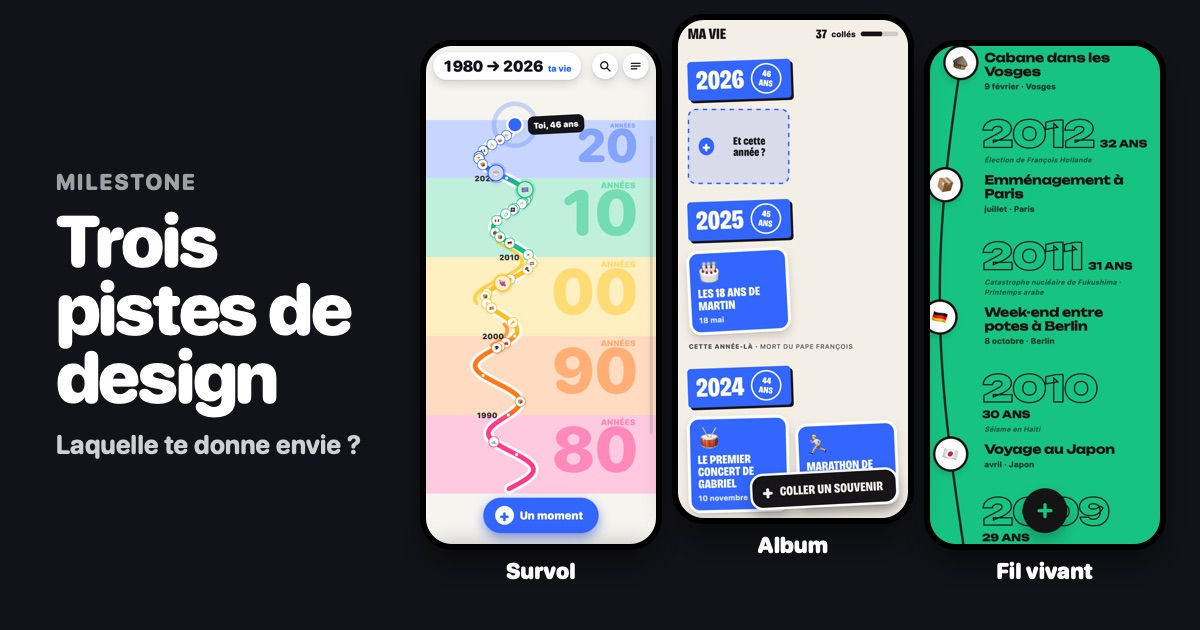
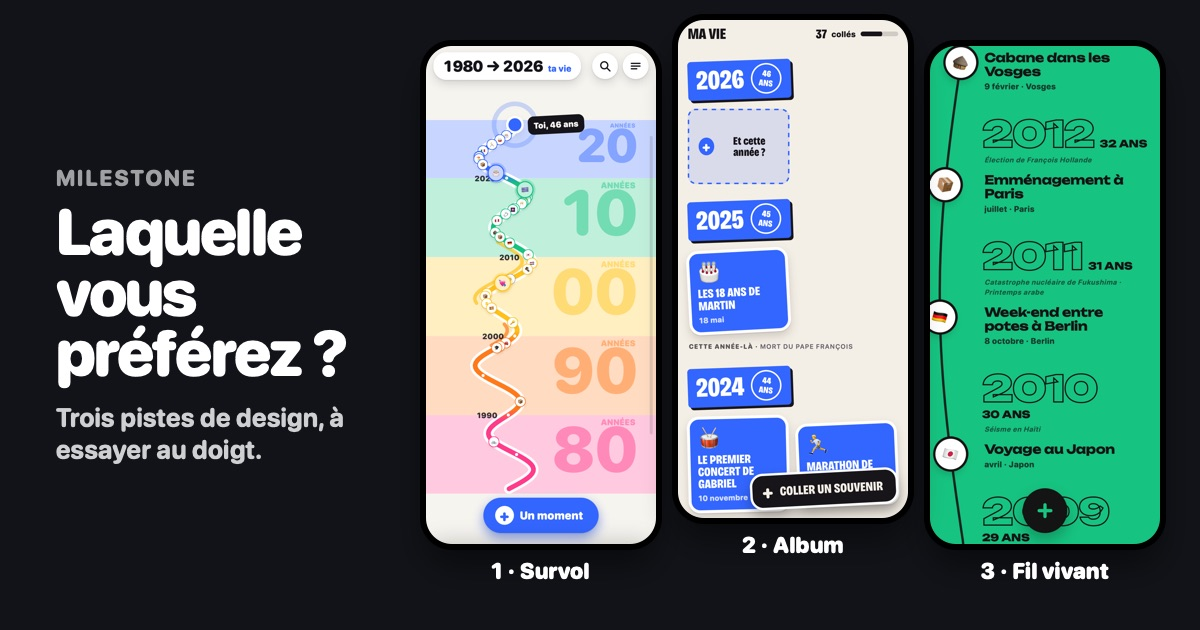
feat(milestone): redépôt des trois pistes, version pour avis entre amis
Copie de experiments/milestone/directions.

Claude-Session: https://claude.ai/code/session_013JJ1X8BCRg6GDtLNszxQEX

diff --git a/milestone/directions/index.html b/milestone/directions/index.html
@@ -4,9 +4,9 @@
 <meta charset="utf-8">
 <meta name="viewport" content="width=device-width, initial-scale=1, viewport-fit=cover">
 <meta name="robots" content="noindex">
-<meta name="description" content="Trois pistes de design pour Milestone, une frise de vie. Chacune se joue au doigt.">
+<meta name="description" content="Trois pistes de design pour Milestone, une app pour poser sa vie sur un fil. Laquelle vous préférez ?">
 <meta property="og:title" content="Milestone, trois pistes de design">
-<meta property="og:description" content="Laquelle te donne envie ? Chaque maquette se joue au doigt.">
+<meta property="og:description" content="Laquelle vous préférez ? Chacune s’essaie au doigt.">
 <meta property="og:image" content="https://castaing.dev/milestone/directions/img/og.jpg">
 <meta property="og:url" content="https://castaing.dev/milestone/directions/">
 <meta property="og:type" content="website">
@@ -15,198 +15,158 @@
 <style>
 @font-face { font-family: "Brico"; src: url("fonts/BricolageGrotesque-latin.woff2") format("woff2"); font-weight: 200 800; font-stretch: 75% 100%; font-display: swap; }
 @font-face { font-family: "Unb"; src: url("fonts/Unbounded-latin.woff2") format("woff2"); font-weight: 200 900; font-display: swap; }
-/* Un tableau de choix : chaque direction a sa section, son téléphone jouable, sa bande du geste. */
+/* Trois pistes numérotées, chacune avec son téléphone à essayer ; la question à la fin. */
 :root {
-  --bg: #ECEEF2; --fg: #111318; --muted: #5B606C; --card: #FFFFFF; --line: rgba(17,19,24,.11); --chip: rgba(17,19,24,.06);
+  --bg: #ECEEF2; --fg: #111318; --muted: #5B606C; --card: #FFFFFF; --line: rgba(17,19,24,.11);
   --round: ui-rounded, "SF Pro Rounded", system-ui, sans-serif;
   --brico: "Brico", "Arial Narrow", system-ui, sans-serif;
   --unb: "Unb", "Arial Black", system-ui, sans-serif;
   --body: system-ui, -apple-system, "Segoe UI", sans-serif;
 }
-@media (prefers-color-scheme: dark) { :root:not([data-theme="light"]) { --bg: #101217; --fg: #F2F3F6; --muted: #A3A8B4; --card: #1B1E25; --line: rgba(255,255,255,.1); --chip: rgba(255,255,255,.07); color-scheme: dark; } }
-:root[data-theme="dark"] { --bg: #101217; --fg: #F2F3F6; --muted: #A3A8B4; --card: #1B1E25; --line: rgba(255,255,255,.1); --chip: rgba(255,255,255,.07); color-scheme: dark; }
+@media (prefers-color-scheme: dark) { :root:not([data-theme="light"]) { --bg: #101217; --fg: #F2F3F6; --muted: #A3A8B4; --card: #1B1E25; --line: rgba(255,255,255,.1); color-scheme: dark; } }
+:root[data-theme="dark"] { --bg: #101217; --fg: #F2F3F6; --muted: #A3A8B4; --card: #1B1E25; --line: rgba(255,255,255,.1); color-scheme: dark; }
 * { box-sizing: border-box; }
 html { padding-top: env(safe-area-inset-top, 0px); padding-bottom: env(safe-area-inset-bottom, 0px); background: var(--bg); }
-body { margin: 0; background: var(--bg); color: var(--fg); font: 16px/1.5 var(--body); }
+body { margin: 0; background: var(--bg); color: var(--fg); font: 17px/1.5 var(--body); }
 img { max-width: 100%; }
-.wrap { max-width: 1080px; margin: 0 auto; padding-inline: 16px; padding-block: 28px 64px; }
-header .k { font: 800 12px var(--round); letter-spacing: .1em; text-transform: uppercase; color: var(--muted); }
-header h1 { margin: 6px 0 10px; font: 900 clamp(34px, 7vw, 56px)/1 var(--round); letter-spacing: -.03em; text-wrap: balance; }
-header p { margin: 0; max-width: 62ch; color: var(--muted); font-size: 17px; }
-.before { margin-top: 18px; display: flex; gap: 10px; align-items: center; flex-wrap: wrap; }
-.before span { font: 800 13px var(--round); color: var(--muted); margin-right: 4px; }
-.before img { width: 64px; border-radius: 10px; border: 1px solid var(--line); }
+.wrap { max-width: 1000px; margin: 0 auto; padding-inline: 16px; padding-block: 32px 64px; }
 
-section.dir { margin-top: 40px; padding-top: 28px; border-top: 2px solid var(--line); }
-.dir-head { display: flex; gap: 14px; align-items: baseline; flex-wrap: wrap; }
-.dir-head h2 { margin: 0; font-size: clamp(40px, 9vw, 64px); line-height: .95; letter-spacing: -.02em; }
-.dir-head .tag { font: 800 13px var(--round); padding: 6px 12px; border-radius: 999px; background: var(--acc); color: var(--acc-ink); }
+header .k { font: 800 13px var(--round); letter-spacing: .1em; text-transform: uppercase; color: var(--muted); }
+header h1 { margin: 6px 0 14px; font: 900 clamp(38px, 8vw, 60px)/1 var(--round); letter-spacing: -.03em; text-wrap: balance; }
+header p { margin: 0 0 10px; max-width: 60ch; font-size: 18px; }
+header p.soft { color: var(--muted); font-size: 16px; }
+.before { margin-top: 16px; display: flex; gap: 10px; align-items: center; flex-wrap: wrap; }
+.before span { font: 800 14px var(--round); color: var(--muted); margin-right: 4px; }
+.before img { width: 58px; border-radius: 10px; border: 1px solid var(--line); }
+
+section.dir { margin-top: 44px; padding-top: 30px; border-top: 2px solid var(--line); }
+.dir-head { display: flex; gap: 14px; align-items: center; flex-wrap: wrap; }
+.num { width: 52px; height: 52px; border-radius: 50%; display: grid; place-items: center; flex: none; background: var(--acc); color: var(--acc-ink); font: 900 26px var(--round); }
+.dir-head h2 { margin: 0; font-size: clamp(40px, 9vw, 62px); line-height: .95; letter-spacing: -.02em; }
 #survol h2 { font-family: var(--round); font-weight: 900; }
 #album h2 { font-family: var(--brico); font-stretch: 75%; font-weight: 800; text-transform: uppercase; }
 #fil h2 { font-family: var(--unb); font-weight: 900; letter-spacing: -.04em; }
-.pitch { margin: 12px 0 0; max-width: 60ch; font-size: 19px; line-height: 1.4; font-weight: 600; text-wrap: pretty; }
+.tag { margin: 8px 0 0; font: 800 20px var(--round); color: var(--muted); }
 
-.dir-body { margin-top: 20px; display: grid; grid-template-columns: 300px minmax(0, 1fr); gap: 28px; align-items: start; }
-@media (max-width: 760px) { .dir-body { grid-template-columns: minmax(0, 1fr); } }
-.phone { position: relative; width: 100%; max-width: 300px; aspect-ratio: 390 / 844; border-radius: 34px; overflow: hidden; background: #000; box-shadow: 0 0 0 8px #0B0C0F, 0 24px 50px rgba(0,0,0,.25); margin: 8px auto 0; }
-.phone img, .phone iframe { position: absolute; inset: 0; width: 100%; height: 100%; border: 0; display: block; }
-.phone iframe { width: 390px; height: 844px; transform-origin: 0 0; }
-.play { position: absolute; left: 50%; bottom: 22px; transform: translateX(-50%); display: flex; align-items: center; gap: 8px; height: 52px; padding: 0 22px; border: 0; border-radius: 26px; background: var(--fg); color: var(--bg); font: 800 17px var(--round); cursor: pointer; box-shadow: 0 10px 24px rgba(0,0,0,.3); white-space: nowrap; }
-.play:focus-visible, .full:focus-visible, .close:focus-visible { outline: 3px solid var(--acc); outline-offset: 3px; }
-.phone-actions { display: flex; justify-content: center; gap: 8px; margin-top: 18px; }
-.full { display: inline-flex; align-items: center; text-decoration: none; height: 40px; padding: 0 16px; border-radius: 20px; border: 1.5px solid var(--line); background: var(--card); color: var(--fg); font: 700 14px var(--round); cursor: pointer; }
-
-.facts { display: grid; gap: 12px; margin: 0; }
-.fact { background: var(--card); border-radius: 18px; padding: 14px 16px; min-width: 0; }
-.fact dt { font: 800 12px var(--round); letter-spacing: .08em; text-transform: uppercase; color: var(--muted); }
-.fact dd { margin: 4px 0 0; font-size: 16px; line-height: 1.45; }
-.fact.risk dt { color: var(--fg); }
-.label { margin: 22px 0 8px; font: 800 12px var(--round); letter-spacing: .08em; text-transform: uppercase; color: var(--muted); }
-.shots { display: grid; grid-template-columns: repeat(5, minmax(0, 1fr)); gap: 10px; }
+.dir-body { margin-top: 22px; display: grid; grid-template-columns: 290px minmax(0, 1fr); gap: 32px; align-items: start; }
+@media (max-width: 760px) { .dir-body { grid-template-columns: minmax(0, 1fr); gap: 22px; } }
+.pitch { margin: 0; max-width: 54ch; font-size: 20px; line-height: 1.45; font-weight: 600; text-wrap: pretty; }
+.try { margin: 16px 0 0; padding: 14px 16px; border-radius: 16px; background: var(--card); max-width: 54ch; font-size: 16px; }
+.try b { font-family: var(--round); }
+.shots { margin-top: 22px; display: grid; grid-template-columns: repeat(4, minmax(0, 1fr)); gap: 10px; }
 .shots figure { margin: 0; min-width: 0; }
 .shots img { width: 100%; border-radius: 12px; border: 1px solid var(--line); display: block; }
-.shots figcaption { margin-top: 5px; font: 700 12px/1.3 var(--round); color: var(--muted); }
-@media (max-width: 560px) { .shots { grid-template-columns: repeat(3, minmax(0, 1fr)); } }
-.strip { display: grid; grid-template-columns: repeat(4, minmax(0, 1fr)); gap: 6px; padding: 8px; border-radius: 16px; background: var(--chip); }
-.strip img { width: 100%; border-radius: 8px; display: block; }
-.strip-cap { margin: 6px 0 0; font-size: 14px; color: var(--muted); }
+.shots figcaption { margin-top: 6px; font: 700 13px/1.3 var(--round); color: var(--muted); }
 
-.bump { margin-top: 44px; padding: 22px 20px; border-radius: 22px; background: var(--card); }
-.bump h2 { margin: 0 0 4px; font: 900 26px var(--round); letter-spacing: -.02em; }
-.bump > p { margin: 0 0 12px; color: var(--muted); max-width: 64ch; }
-.bump ol { margin: 0; padding-left: 22px; display: grid; gap: 8px; max-width: 78ch; }
-.bump li::marker { font-weight: 800; color: var(--muted); }
-.bump .unv { margin-top: 14px; padding-top: 12px; border-top: 1.5px dashed var(--line); font-size: 15px; color: var(--muted); max-width: 78ch; }
-.bump .src { margin-top: 10px; font-size: 13px; color: var(--muted); overflow-wrap: anywhere; }
-.bump .src a { color: inherit; }
+.phone { position: relative; width: 100%; max-width: 290px; aspect-ratio: 390 / 844; border-radius: 34px; overflow: hidden; background: #000; box-shadow: 0 0 0 8px #0B0C0F, 0 24px 50px rgba(0,0,0,.25); margin: 8px auto 0; }
+.phone img, .phone iframe { position: absolute; inset: 0; width: 100%; height: 100%; border: 0; display: block; }
+.phone iframe { width: 390px; height: 844px; transform-origin: 0 0; }
+.play { position: absolute; left: 50%; bottom: 22px; transform: translateX(-50%); height: 54px; padding: 0 26px; border: 0; border-radius: 27px; background: var(--fg); color: var(--bg); font: 800 18px var(--round); cursor: pointer; box-shadow: 0 10px 24px rgba(0,0,0,.3); white-space: nowrap; }
+.phone-actions { display: flex; justify-content: center; margin-top: 18px; }
+.full { display: inline-flex; align-items: center; text-decoration: none; height: 42px; padding: 0 18px; border-radius: 21px; border: 1.5px solid var(--line); background: var(--card); color: var(--fg); font: 700 15px var(--round); cursor: pointer; }
+.play:focus-visible, .full:focus-visible, .close:focus-visible { outline: 3px solid var(--acc, #3366FF); outline-offset: 3px; }
 
-.ask { margin-top: 44px; padding: 26px 22px; border-radius: 22px; background: var(--fg); color: var(--bg); }
-.ask h2 { margin: 0; font: 900 clamp(26px, 5vw, 36px)/1.1 var(--round); letter-spacing: -.02em; text-wrap: balance; }
-.ask p { margin: 8px 0 0; opacity: .8; max-width: 60ch; }
-.common { margin-top: 18px; font-size: 15px; color: var(--muted); max-width: 72ch; }
+.ask { margin-top: 48px; padding: 28px 22px; border-radius: 24px; background: var(--fg); color: var(--bg); }
+.ask h2 { margin: 0; font: 900 clamp(30px, 6vw, 42px)/1.05 var(--round); letter-spacing: -.02em; text-wrap: balance; }
+.ask p { margin: 10px 0 0; max-width: 56ch; font-size: 18px; opacity: .85; }
+.ask .keys { margin-top: 16px; display: flex; gap: 10px; flex-wrap: wrap; }
+.ask .keys span { display: inline-flex; align-items: center; gap: 8px; height: 40px; padding: 0 16px 0 6px; border-radius: 20px; background: color-mix(in srgb, var(--bg) 12%, transparent); font: 800 16px var(--round); }
+.ask .keys i { width: 28px; height: 28px; border-radius: 50%; display: grid; place-items: center; font-style: normal; background: var(--k); color: var(--kink); }
+.fine { margin-top: 18px; font-size: 14px; color: var(--muted); }
 
 .overlay { position: fixed; inset: 0; z-index: 10; background: rgba(5,6,8,.86); display: grid; place-items: center; padding: 12px; }
 .overlay .phone { max-width: none; width: min(390px, calc(100vw - 24px), calc((100vh - 90px) * 390 / 844)); margin: 0; }
 .close { position: fixed; top: calc(env(safe-area-inset-top, 0px) + 12px); right: 12px; width: 44px; height: 44px; border-radius: 50%; border: 0; background: #fff; color: #111; font: 900 22px var(--round); cursor: pointer; }
-@media (prefers-reduced-motion: reduce) { * { scroll-behavior: auto; } }
 </style>
 </head>
 <body>
-
 <div class="wrap">
   <header>
     <div class="k">Milestone · nouveau design</div>
-    <h1>Trois pistes</h1>
-    <p>Milestone, c’est une petite app que je fabrique : ta vie sur un fil, à côté de l’Histoire. On y pose un souvenir en une phrase (« road trip en Espagne l’été 2003 ») et il se range tout seul à sa date. La version actuelle marche, mais elle est fade. Voici trois pistes pour lui donner du caractère, avec une vie d’exemple inventée. Chacune se joue au doigt : touche « Jouer », ou ouvre-la en plein écran depuis ton téléphone.</p>
-    <div class="before"><span>La version actuelle :</span><img src="img/actuel-light-2-frise-haut.jpg" alt="Frise actuelle : fond beige, fil rouge, années en serif"><img src="img/actuel-light-5-raconter.jpg" alt="Capture actuelle : champ, flèches, segments jour mois année"><img src="img/actuel-light-6-fiche.jpg" alt="Fiche actuelle"></div>
+    <h1>Laquelle vous préférez ?</h1>
+    <p>Je fabrique Milestone, une petite app pour poser sa vie sur un fil. On écrit un souvenir en une phrase, « road trip en Espagne l’été 2003 », et il se range tout seul à sa date, à côté des grands événements de l’époque.</p>
+    <p>Elle marche, mais elle manque de caractère. Voici trois pistes de design, sur une vie inventée. Chacune s’essaie au doigt, idéalement sur téléphone.</p>
+    <div class="before"><span>Aujourd’hui, elle ressemble à ça :</span><img src="img/actuel-light-2-frise-haut.jpg" alt="La version actuelle : fond beige, fil rouge"><img src="img/actuel-light-5-raconter.jpg" alt="La version actuelle : écrire un souvenir"><img src="img/actuel-light-6-fiche.jpg" alt="La version actuelle : un souvenir ouvert"></div>
   </header>
 
   <section class="dir" id="survol" style="--acc:#3366FF;--acc-ink:#fff">
-    <div class="dir-head"><h2>Survol</h2><span class="tag">ta vie vue d’avion</span></div>
-    <p class="pitch">La frise devient une carte : ta vie entière tient dans l’écran, colorée décennie par décennie, et l’on plonge au pincement jusqu’à l’année puis au moment.</p>
+    <div class="dir-head"><span class="num">1</span><h2>Survol</h2></div>
+    <p class="tag">Ta vie vue d’avion</p>
     <div class="dir-body">
       <div>
-        <div class="phone" data-src="survol.html"><img src="img/survol-light-1-vie.jpg" alt="Survol : la vie entière, une route colorée par décennie"><button class="play">▶ Jouer</button></div>
-        <div class="phone-actions"><a class="full" href="survol.html" data-src="survol.html">Plein écran</a></div>
+        <div class="phone" data-src="survol.html"><img src="img/survol-light-1-vie.jpg" alt="Survol : toute la vie sur une route colorée par décennie"><button class="play">Essayer</button></div>
+        <div class="phone-actions"><a class="full" href="survol.html" data-src="survol.html">Ouvrir en grand</a></div>
       </div>
       <div>
-        <dl class="facts">
-          <div class="fact"><dt>Le geste</dt><dd>Pincer, ou glisser le pouce le long du bord droit : vie entière, décennies, années, mois, avec un cran sous le doigt à chaque palier. Toucher une décennie y plonge.</dd></div>
-          <div class="fact"><dt>La récompense</dt><dd>Le moment posé s’envole : la carte prend de la hauteur, survole ta vie, plonge à sa place, et il atterrit avec un rebond et une onde.</dd></div>
-          <div class="fact"><dt>L’Histoire et les années vides</dt><dd>Les repères sont des noms de lieux en filigrane. De près, une année sans souvenir propose « Et en 1994 ? ».</dd></div>
-          <div class="fact risk"><dt>Ce qu’elle coûte</dt><dd>La lecture en liste disparaît : on relit en survolant. C’est la plus lourde à rendre fluide sur iPhone, la carte est dessinée par l’app.</dd></div>
-        </dl>
-        <p class="label">Les écrans</p>
+        <p class="pitch">La frise devient une carte. On voit toute sa vie d’un coup d’œil, chaque décennie a sa couleur, et on zoome jusqu’à une année puis jusqu’à un souvenir.</p>
+        <p class="try"><b>À essayer :</b> pincez la carte, ou faites glisser le pouce le long du bord droit. Touchez « Un moment » et écrivez une phrase avec une date, puis regardez où elle se pose.</p>
         <div class="shots">
           <figure><img src="img/survol-light-3-annees.jpg" alt=""><figcaption>Zoom sur les années</figcaption></figure>
-          <figure><img src="img/survol-light-4-poser.jpg" alt=""><figcaption>Poser un moment</figcaption></figure>
-          <figure><img src="img/survol-light-6-fiche.jpg" alt=""><figcaption>La fiche</figcaption></figure>
-          <figure><img src="img/survol-dark-1-vie.jpg" alt=""><figcaption>En sombre</figcaption></figure>
-          <figure><img src="img/survol-light-1-vie.jpg" alt=""><figcaption>Vie entière</figcaption></figure>
+          <figure><img src="img/survol-light-4-poser.jpg" alt=""><figcaption>Écrire un souvenir</figcaption></figure>
+          <figure><img src="img/survol-light-6-fiche.jpg" alt=""><figcaption>Un souvenir ouvert</figcaption></figure>
+          <figure><img src="img/survol-dark-1-vie.jpg" alt=""><figcaption>Le soir</figcaption></figure>
         </div>
-        <p class="label">Poser, image par image</p>
-        <div class="strip"><img src="img/survol-light-5-vol-0.jpg" alt=""><img src="img/survol-light-5-vol-2.jpg" alt=""><img src="img/survol-light-5-vol-4.jpg" alt=""><img src="img/survol-light-5-vol-5.jpg" alt=""></div>
-        <p class="strip-cap">« Saut en parachute à Gap mai 2012 » : 🪂 deviné, vert des années 2010, la carte s’élève puis plonge sur mai 2012.</p>
       </div>
     </div>
   </section>
 
   <section class="dir" id="album" style="--acc:#FFC21A;--acc-ink:#141414">
-    <div class="dir-head"><h2>Album</h2><span class="tag">ta vie en autocollants</span></div>
-    <p class="pitch">Chaque moment est un autocollant découpé, collé sur la page de son année. Les temps forts sont des brillants, les années vides des cases qui attendent.</p>
+    <div class="dir-head"><span class="num">2</span><h2>Album</h2></div>
+    <p class="tag">Ta vie en autocollants</p>
     <div class="dir-body">
       <div>
-        <div class="phone" data-src="album.html"><img src="img/album-light-1-haut.jpg" alt="Album : bandeaux d'années, autocollants colorés"><button class="play">▶ Jouer</button></div>
-        <div class="phone-actions"><a class="full" href="album.html" data-src="album.html">Plein écran</a></div>
+        <div class="phone" data-src="album.html"><img src="img/album-light-1-haut.jpg" alt="Album : des autocollants colorés sous chaque année"><button class="play">Essayer</button></div>
+        <div class="phone-actions"><a class="full" href="album.html" data-src="album.html">Ouvrir en grand</a></div>
       </div>
       <div>
-        <dl class="facts">
-          <div class="fact"><dt>Le geste</dt><dd>Garder le doigt sur un autocollant le soulève : il suit le doigt, penche avec l’élan, puis revient se coller. Dans la planche, on le fait glisser de côté pour changer la date.</dd></div>
-          <div class="fact"><dt>La récompense</dt><dd>Coller : il se décolle de la planche, l’album file à la bonne page, ça claque, la page tressaille et le compteur prend +1.</dd></div>
-          <div class="fact"><dt>La fiche</dt><dd>L’autocollant vient à toi et se retourne : au dos, l’âge en grand, la note, ce qui l’entoure. On feuillette en glissant, le mode deck revient de lui-même.</dd></div>
-          <div class="fact risk"><dt>Ce qu’elle coûte</dt><dd>Le fil continu : la vie se lit par pages d’années. L’esprit collection peut sembler léger pour certains souvenirs ; un deuil reste un autocollant sobre, sans émoji ni éclat.</dd></div>
-        </dl>
-        <p class="label">Les écrans</p>
+        <p class="pitch">Chaque souvenir est un autocollant collé sur la page de son année. Les plus importants brillent, et les années encore vides attendent qu’on les remplisse.</p>
+        <p class="try"><b>À essayer :</b> gardez le doigt sur un autocollant pour le décoller, touchez-le pour le retourner. Puis « Coller un souvenir ».</p>
         <div class="shots">
-          <figure><img src="img/album-light-3-bas.jpg" alt=""><figcaption>Années vides en cases</figcaption></figure>
-          <figure><img src="img/album-light-4-poser.jpg" alt=""><figcaption>Poser un moment</figcaption></figure>
-          <figure><img src="img/album-light-6-fiche-b.jpg" alt=""><figcaption>Le dos, la fiche</figcaption></figure>
-          <figure><img src="img/album-dark-1-haut.jpg" alt=""><figcaption>En sombre</figcaption></figure>
-          <figure><img src="img/album-light-1-haut.jpg" alt=""><figcaption>Les pages</figcaption></figure>
+          <figure><img src="img/album-light-3-bas.jpg" alt=""><figcaption>Les années vides</figcaption></figure>
+          <figure><img src="img/album-light-4-poser.jpg" alt=""><figcaption>Écrire un souvenir</figcaption></figure>
+          <figure><img src="img/album-light-6-fiche-b.jpg" alt=""><figcaption>Le dos de l’autocollant</figcaption></figure>
+          <figure><img src="img/album-dark-1-haut.jpg" alt=""><figcaption>Le soir</figcaption></figure>
         </div>
-        <p class="label">Coller, image par image</p>
-        <div class="strip"><img src="img/album-light-5-coller-0.jpg" alt=""><img src="img/album-light-5-coller-2.jpg" alt=""><img src="img/album-light-5-coller-3.jpg" alt=""><img src="img/album-light-5-coller-4.jpg" alt=""></div>
-        <p class="strip-cap">L’autocollant quitte la planche, rejoint 2012 et claque à côté de l’emménagement à Paris.</p>
       </div>
     </div>
   </section>
 
   <section class="dir" id="fil" style="--acc:#16C47F;--acc-ink:#141414">
-    <div class="dir-head"><h2>Fil vivant</h2><span class="tag">la couleur du temps</span></div>
-    <p class="pitch">L’écran entier prend la couleur de la décennie que tu traverses. Le fil ploie quand tu défiles vite et revient en oscillant ; chaque moment s’ouvre en plein écran, comme une story.</p>
+    <div class="dir-head"><span class="num">3</span><h2>Fil vivant</h2></div>
+    <p class="tag">La couleur du temps</p>
     <div class="dir-body">
       <div>
-        <div class="phone" data-src="fil.html"><img src="img/fil-light-0-echo.jpg" alt="Fil vivant : l'écho du jour en plein écran au lancement"><button class="play">▶ Jouer</button></div>
-        <div class="phone-actions"><a class="full" href="fil.html" data-src="fil.html">Plein écran</a></div>
+        <div class="phone" data-src="fil.html"><img src="img/fil-light-0-echo.jpg" alt="Fil vivant : un souvenir d'il y a dix ans ouvert en grand"><button class="play">Essayer</button></div>
+        <div class="phone-actions"><a class="full" href="fil.html" data-src="fil.html">Ouvrir en grand</a></div>
       </div>
       <div>
-        <dl class="facts">
-          <div class="fact"><dt>Le geste</dt><dd>Défiler : la couleur glisse d’une décennie à l’autre, le fil se tend puis vibre. Raconter teint tout l’écran de la couleur du moment ; on glisse la date de côté pour la corriger.</dd></div>
-          <div class="fact"><dt>La récompense</dt><dd>La breloque tombe du haut de l’écran et le fil encaisse le choc. Au lancement, l’écho du jour s’ouvre seul, comme une story.</dd></div>
-          <div class="fact"><dt>La fiche</dt><dd>Une story de l’année : l’âge en très grand, toucher à droite pour le moment suivant, glisser vers le bas pour refermer.</dd></div>
-          <div class="fact risk"><dt>Ce qu’elle coûte</dt><dd>La vue d’ensemble : pas de vie entière d’un coup d’œil. Les grands aplats de couleur fatiguent plus vite en lecture longue.</dd></div>
-        </dl>
-        <p class="label">Les écrans</p>
+        <p class="pitch">Tout l’écran prend la couleur de la décennie qu’on traverse. Les souvenirs sont accrochés à un fil qui ondule quand on fait défiler, et chacun s’ouvre en grand, comme une story.</p>
+        <p class="try"><b>À essayer :</b> faites défiler vite, touchez un souvenir, puis le bouton + pour en accrocher un.</p>
         <div class="shots">
-          <figure><img src="img/fil-light-2b-ploie.jpg" alt=""><figcaption>Le fil qui ploie</figcaption></figure>
-          <figure><img src="img/fil-light-4-poser.jpg" alt=""><figcaption>Poser un moment</figcaption></figure>
-          <figure><img src="img/fil-light-6-fiche.jpg" alt=""><figcaption>La fiche en story</figcaption></figure>
-          <figure><img src="img/fil-dark-1-haut.jpg" alt=""><figcaption>En sombre</figcaption></figure>
-          <figure><img src="img/fil-light-0-echo.jpg" alt=""><figcaption>L’écho au lancement</figcaption></figure>
+          <figure><img src="img/fil-light-2b-ploie.jpg" alt=""><figcaption>Le fil qui ondule</figcaption></figure>
+          <figure><img src="img/fil-light-4-poser.jpg" alt=""><figcaption>Écrire un souvenir</figcaption></figure>
+          <figure><img src="img/fil-light-6-fiche.jpg" alt=""><figcaption>Un souvenir ouvert</figcaption></figure>
+          <figure><img src="img/fil-dark-1-haut.jpg" alt=""><figcaption>Le soir</figcaption></figure>
         </div>
-        <p class="label">Accrocher, image par image</p>
-        <div class="strip"><img src="img/fil-light-5-accrocher-0.jpg" alt=""><img src="img/fil-light-5-accrocher-1.jpg" alt=""><img src="img/fil-light-5-accrocher-3.jpg" alt=""><img src="img/fil-light-5-accrocher-4.jpg" alt=""></div>
-        <p class="strip-cap">La breloque 🪂 tombe sur mai 2012, le fil se creuse sous le choc puis reprend sa ligne.</p>
       </div>
     </div>
   </section>
 
-  <p class="common">Dans les trois : l’émoji est proposé d’après la phrase et se change d’un toucher, sans catégorie imposée ; un deuil n’a ni émoji, ni gerbe, ni rebond ; la couleur suit la décennie ; mode sombre, « Réduire les animations » respecté. Ce sont des maquettes : rien n’est enregistré, et l’accueil, la recherche et les réglages ne sont pas encore dessinés.</p>
-
   <div class="ask">
-    <h2>Laquelle tu préfères, et pourquoi ?</h2>
-    <p>Réponds-moi par message, même en un mot. Ce qui t’a agacé ou ce que tu n’as pas compris m’intéresse autant que ce qui t’a plu.</p>
+    <h2>Alors, laquelle vous préférez ?</h2>
+    <p>Répondez-moi par message, un chiffre suffit. Si un détail d’une autre piste vous a plu, ou si quelque chose vous a gêné, dites-le aussi.</p>
+    <div class="keys"><span style="--k:#3366FF;--kink:#fff"><i>1</i>Survol</span><span style="--k:#FFC21A;--kink:#141414"><i>2</i>Album</span><span style="--k:#16C47F;--kink:#141414"><i>3</i>Fil vivant</span></div>
   </div>
+  <p class="fine">Ce sont des maquettes : rien de ce que vous écrivez n’est gardé, et la vie affichée est inventée.</p>
 </div>
 
 <script>
-// Les maquettes ne se chargent qu'au toucher : la page reste légère et le premier écran complet.
+// Les maquettes ne se chargent qu'au toucher : la page reste légère.
 function mount(phone) {
   if (phone.querySelector('iframe')) return;
   const f = document.createElement('iframe');
   f.src = phone.dataset.src;
-  f.title = 'Maquette jouable';
-  f.setAttribute('allow', 'vibrate');
+  f.title = 'Maquette à essayer';
   phone.append(f);
   const fit = () => { f.style.transform = `scale(${phone.clientWidth / 390})`; };
   fit();
@@ -217,6 +177,7 @@ document.addEventListener('click', (e) => {
   const play = e.target.closest('.play');
   if (play) return mount(play.closest('.phone'));
   const full = e.target.closest('.full');
+  // Sur téléphone, « Ouvrir en grand » ouvre la maquette comme une page ; sur ordinateur, en surimpression.
   if (full && innerWidth > 700) {
     e.preventDefault();
     const ov = document.createElement('div');
